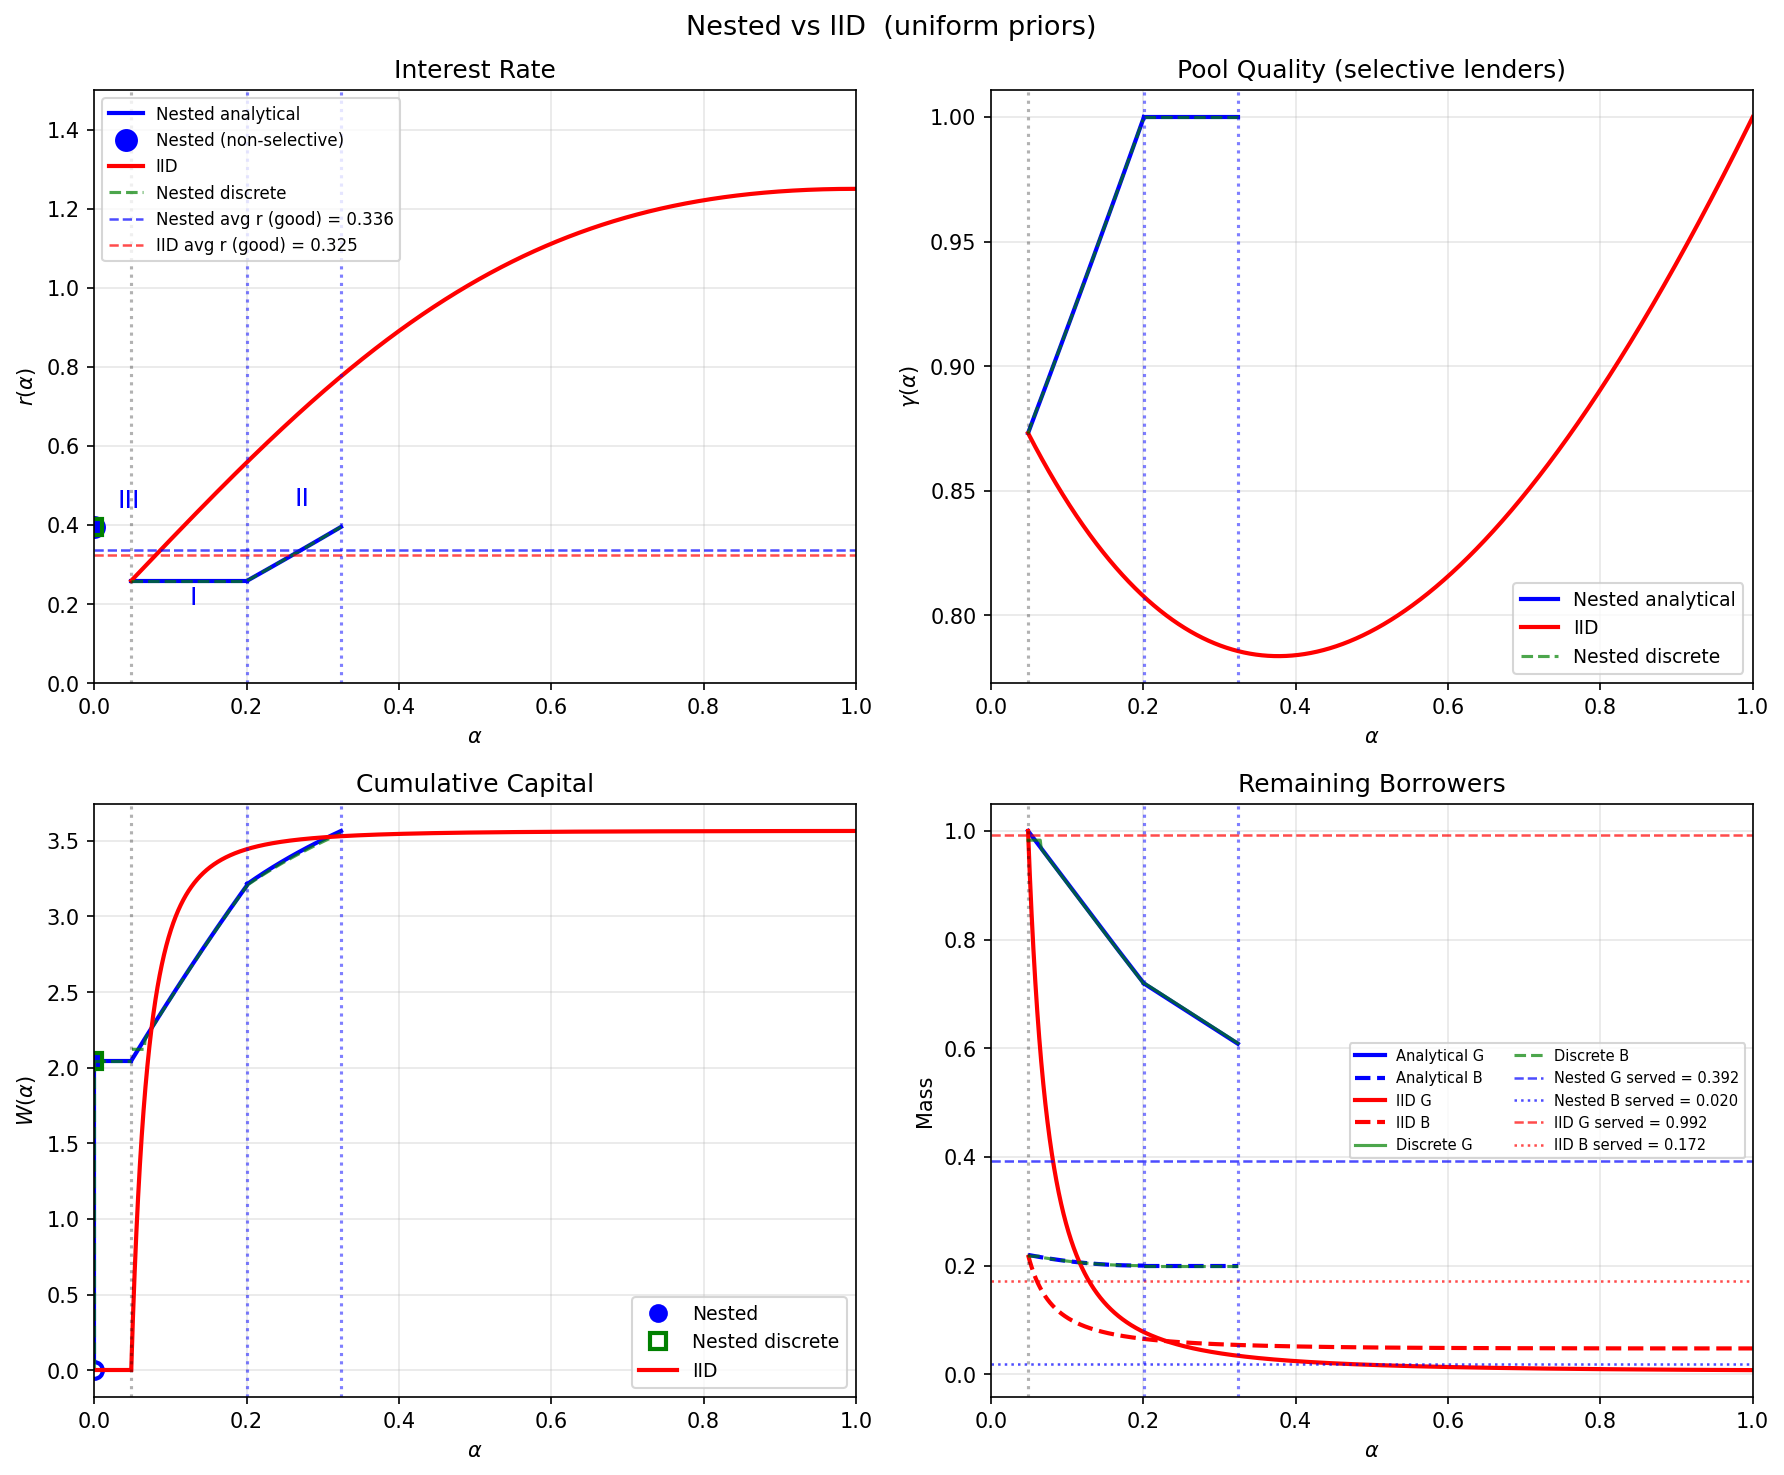
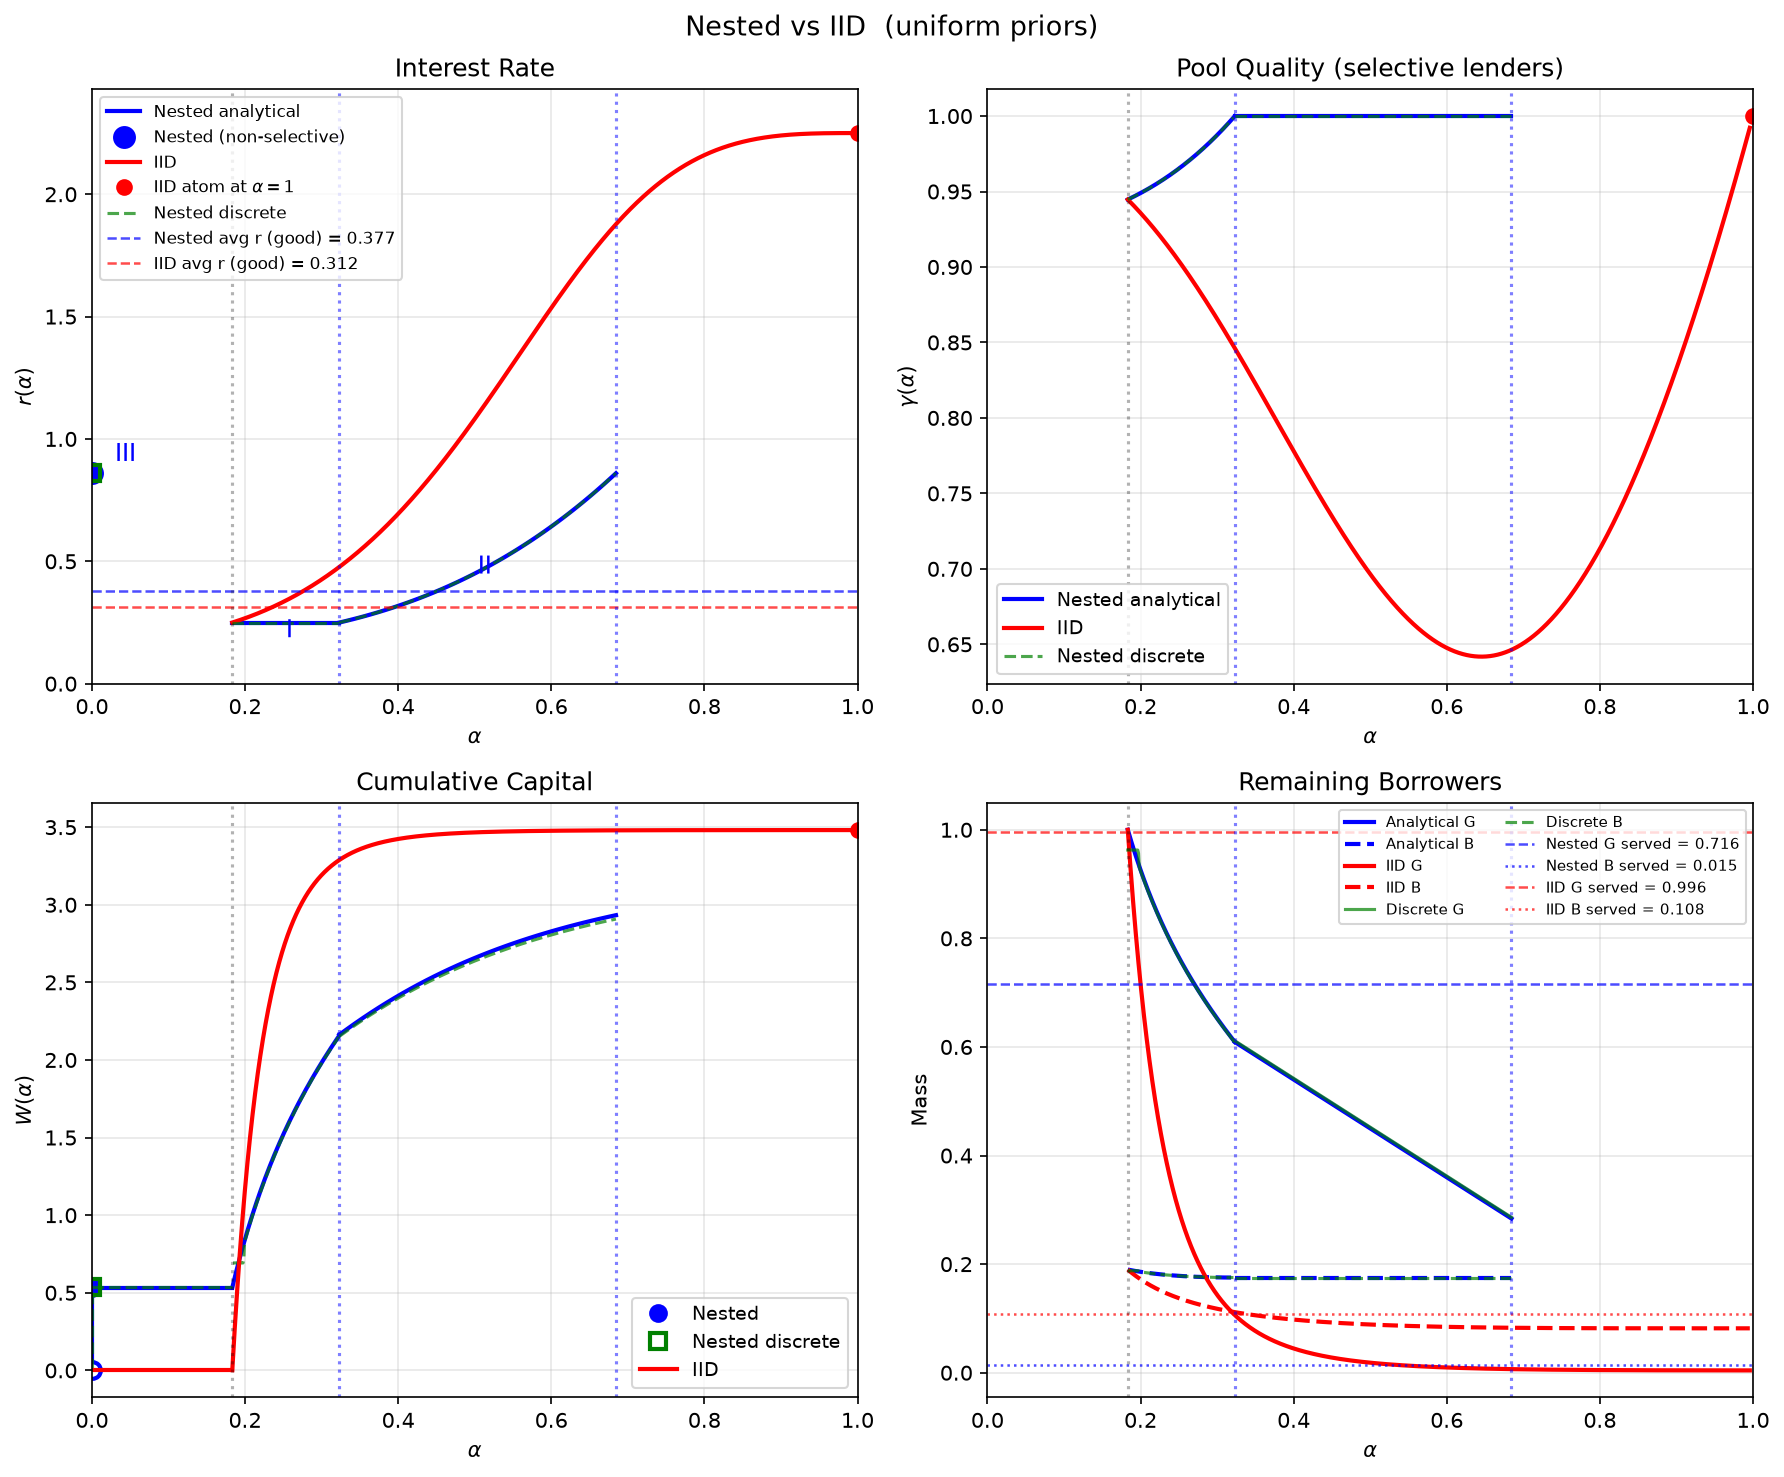
Re-parameterize baseline (Pi=0.15, BperG=0.19, cubic cost 2a^3+0.1a)
Drops the Wbar-matching constraint (old: Pi=0.05, BperG=0.2197, cost
0.2a^2+a). Chosen so the comparison figure is legible: avg good-borrower
rate gap nested-iid = +0.065 (was +0.011) and alpha2 = 0.68 interior
(was 0.33), all three nested regions present. Also: adaptive ylim in
plot_comparison's rate panel; lending figure extended to 2x2 with
cumulative-lending-by-rate panels.

diff --git a/credit_model.py b/credit_model.py
@@ -17,9 +17,13 @@ warnings.filterwarnings('ignore')
 # Cost function: c(alpha) = COST_C2 * alpha**COST_P2 + COST_C1 * alpha**COST_P1
 # Change these four parameters — cfun, cfun_prime_exact, cfun_prime2_exact
 # are all derived from them and stay consistent automatically.
-COST_C2 = 0.2
-COST_P2 = 2.0
-COST_C1 = 1.0
+# NOTE on alpha2: the NS margin solves (1-beta)(1-a)C(a) = badleftover*(1+Pi),
+# so the largest attainable alpha2 is capped by the peak of (1-a)C(a): a=1/2
+# for linear C, 2/3 for quadratic, 3/4 for cubic.  The cubic-dominant cost
+# below (was 0.2a^2 + 1.0a) is what lets alpha2 sit at ~0.69 instead of ~0.3.
+COST_C2 = 2.0
+COST_P2 = 3.0
+COST_C1 = 0.1
 COST_P1 = 1.0
 
 def cfun(alpha):
@@ -54,10 +58,20 @@ def dfun(r0):
 
 @dataclass
 class Parameters:
-    """Model parameters."""
-    Pi: float = 0.05      # Profit margin
+    """Model parameters.
+
+    Baseline (Pi=0.15, BperG=0.19, cubic-dominant cost) drops the old
+    requirement that nested and iid produce the same total capital Wbar
+    (which pinned BperG=0.2197 with Pi=0.05 and cost 0.2a^2+a).  It is chosen
+    instead so the comparison figure is legible: avg good-borrower rate gap
+    nested - iid ~ +0.065 (was +0.011), and alpha2 ~ 0.69 interior (was 0.33),
+    so all three nested regions are present and not squeezed to the left.
+    BperG much above 0.19 kills Region III (no NS root); much below shrinks
+    the rate gap.
+    """
+    Pi: float = 0.15      # Profit margin
     beta: float = 0.1     # Signal precision parameter was 0.3
-    BperG: float = 0.2197  # Ratio of bad to good borrowers
+    BperG: float = 0.19   # Ratio of bad to good borrowers
     Delta: float = 0.001  # Step size for alpha iteration
     delom: float = 0.0001 # Step size for omega grid
     # Prior shape parameters (0 = uniform)
@@ -1086,7 +1100,8 @@ def plot_comparison(params, nested, iid, nested_disc=None):
     axes[0,0].set_title('Interest Rate')
     axes[0,0].legend(loc='upper left', fontsize=8)
     axes[0,0].grid(alpha=0.3)
-    axes[0,0].set_xlim([0, 1]); axes[0,0].set_ylim([0, 1.5])
+    r_top = max(1.5, 1.08 * iid.get('r_perfect', 0.0), 1.08 * r_NS)
+    axes[0,0].set_xlim([0, 1]); axes[0,0].set_ylim([0, r_top])
     axes[0,0].text((alpha0+alpha1)/2, rp - 0.06, 'I', fontsize=12, color='blue')
     axes[0,0].text((alpha1+alpha2)/2, 0.45, 'II', fontsize=12, color='blue')
     axes[0,0].text(0.03, r_NS + 0.05, 'III', fontsize=12, color='blue')
@@ -1576,8 +1591,8 @@ def compute_avg_good_rate(params, nested, iid):
 
 def plot_cumulative_lending(params, nested, iid):
     """
-    Plot cumulative total lending quantity to good and bad borrowers as alpha
-    increases from alpha=0 (non-selective lenders in nested) upward.
+    Plot cumulative total lending quantity to good and bad borrowers, in two
+    views: by skill alpha (top row) and by interest rate r (bottom row).
 
     Quantity = D(r) * borrower mass served per unit alpha.  Since w(alpha)*da
     already equals D(r)*mass (the solvers build D(r) into w), we can split
@@ -1585,15 +1600,22 @@ def plot_cumulative_lending(params, nested, iid):
         good contribution at alpha = gamma(alpha) * w(alpha) * da
         bad  contribution at alpha = (1-gamma(alpha)) * w(alpha) * da
 
-    Nested ordering (lowest to highest alpha):
+    Nested ordering by alpha (lowest to highest):
         alpha=0  : non-selective (Region III) lenders — jump of WNS
         0..alpha0: flat (no additional lenders in nested)
         alpha0..alpha1: Region I  (pooling rate rp, mixed pool)
         alpha1..alpha2: Region II (screening, gamma=1, only good borrowers)
 
-    IID ordering:
+    IID ordering by alpha:
         0..alpha0: zero lending
         alpha0..alpha_bar: IID selective lenders
+
+    In the by-r view the nested ordering REVERSES: Region I lends its whole
+    mass at the lowest rate rp (vertical jump), Region II spreads over
+    (rp, r_NS], and the non-selective block lends at the top nested rate
+    r_NS (second jump).  The iid schedule starts at the same bottom rate
+    (r0 = rp, same alpha0 and fresh pool) but spreads smoothly upward; its
+    atom of perfect screeners sits at r_perfect = K(1).
     """
     # -------------------------------------------------------------------------
     # Nested: Region III (non-selective, at alpha=0)
@@ -1637,6 +1659,17 @@ def plot_cumulative_lending(params, nested, iid):
     cum_bad_iid  = np.concatenate([[0.0], np.cumsum(bad_iid[:-1])])
 
     # -------------------------------------------------------------------------
+    # By-r decomposition (nested): Region I all at rp, Region II over
+    # (rp, r_NS], NS block at r_NS.  (Same per-step quantities, reordered.)
+    # -------------------------------------------------------------------------
+    rp   = nested['rp']
+    r_NS = nested['r_NS']
+    G1_tot = np.sum(good_R1[:-1])          # Region I totals (all lent at rp)
+    B1_tot = np.sum(bad_R1[:-1])
+    r_R2 = cfun(alphas_R2) + params.Pi     # Region II rate, rises rp -> r_NS
+    cumr_good_R2 = G1_tot + np.concatenate([[0.0], np.cumsum(good_R2[:-1])])
+
+    # -------------------------------------------------------------------------
     # Plot
     # -------------------------------------------------------------------------
     alpha0 = nested['alpha0']
@@ -1645,12 +1678,12 @@ def plot_cumulative_lending(params, nested, iid):
     alpha_ns_flat  = np.linspace(0.0, alpha0, 30)
     alpha_pre_iid  = np.linspace(0.0, iid['alpha0'], 20)
 
-    fig, axes = plt.subplots(1, 2, figsize=(12, 5))
+    fig, axes = plt.subplots(2, 2, figsize=(12, 10))
     prior_desc = ("uniform priors" if params.a_g == 0 and params.a_b == 0
                   else f"a_g={params.a_g}, a_b={params.a_b}")
 
     for ax, (cum_n_R1, cum_n_R2, cum_i, Q_ns, title) in zip(
-        axes,
+        axes[0],
         [
             (cum_good_R1, cum_good_R2, cum_good_iid, Q_NS_good, 'Good Borrowers'),
             (cum_bad_R1,  cum_bad_R2,  cum_bad_iid,  Q_NS_bad,  'Bad Borrowers'),
@@ -1685,10 +1718,62 @@ def plot_cumulative_lending(params, nested, iid):
 
         ax.set_xlabel(r'$\alpha$')
         ax.set_ylabel('Cumulative lending quantity  D(r) x mass')
-        ax.set_title(title)
+        ax.set_title(title + '  (by skill $\\alpha$)')
         ax.legend(fontsize=8)
         ax.grid(alpha=0.3)
         ax.set_xlim([0, 1])
+
+    # -------------------------------------------------------------------------
+    # Bottom row: same cumulatives ordered by interest rate r
+    # -------------------------------------------------------------------------
+    r_perfect = iid.get('r_perfect', 0.0)
+    W_atom = iid.get('W_atom', 0.0)
+    r_max = max(r_NS, float(iid['r_eq'][-1]),
+                r_perfect if W_atom > 0 else 0.0)
+
+    for ax, (jump1, cum_R2_r, flat_R2, cum_i, Q_ns, has_atom, title) in zip(
+        axes[1],
+        [
+            (G1_tot, cumr_good_R2, False, cum_good_iid, Q_NS_good, True,
+             'Good Borrowers'),
+            (B1_tot, None,         True,  cum_bad_iid,  Q_NS_bad,  False,
+             'Bad Borrowers'),
+        ]
+    ):
+        # Nested: nothing below rp, Region I mass as a jump at rp
+        ax.plot([0, rp], [0, 0], 'b-', lw=2)
+        ax.plot([rp, rp], [0, jump1], 'b-', lw=2, label='Nested')
+        if flat_R2:
+            # Region II serves only good borrowers: bad cumulative stays flat
+            ax.plot([rp, r_NS], [jump1, jump1], 'b-', lw=2)
+            nested_top = jump1
+        else:
+            ax.plot(r_R2, cum_R2_r, 'b-', lw=2)
+            nested_top = cum_R2_r[-1]
+        # NS block lends at the top nested rate r_NS
+        ax.plot([r_NS, r_NS], [nested_top, nested_top + Q_ns], 'b-', lw=2)
+        ax.plot(r_NS, nested_top + Q_ns, 'bo', markersize=6)
+
+        # IID: spreads smoothly upward from the same bottom rate r0 = rp
+        for i, s in enumerate(_iid_segments(iid)):
+            ax.plot(iid['r_eq'][s], cum_i[s], 'r-', lw=2,
+                    label='IID' if i == 0 else None)
+        if has_atom and W_atom > 0:
+            ax.plot([r_perfect, r_perfect],
+                    [cum_i[-1], cum_i[-1] + W_atom], 'r-', lw=2)
+            ax.plot(r_perfect, cum_i[-1] + W_atom, 'ro', markersize=6)
+
+        ax.axvline(rp,   color='blue', ls=':',  alpha=0.4,
+                   label=f'$r_p$={rp:.3f}')
+        ax.axvline(r_NS, color='blue', ls='--', alpha=0.4,
+                   label=f'$r_{{NS}}$={r_NS:.3f}')
+
+        ax.set_xlabel(r'$r$')
+        ax.set_ylabel('Cumulative lending quantity  D(r) x mass')
+        ax.set_title(title + '  (by rate $r$)')
+        ax.legend(fontsize=8)
+        ax.grid(alpha=0.3)
+        ax.set_xlim([0, 1.05 * r_max])
 
     fig.suptitle(f'Cumulative Lending by Borrower Type  ({prior_desc})', fontsize=13)
     plt.tight_layout()
